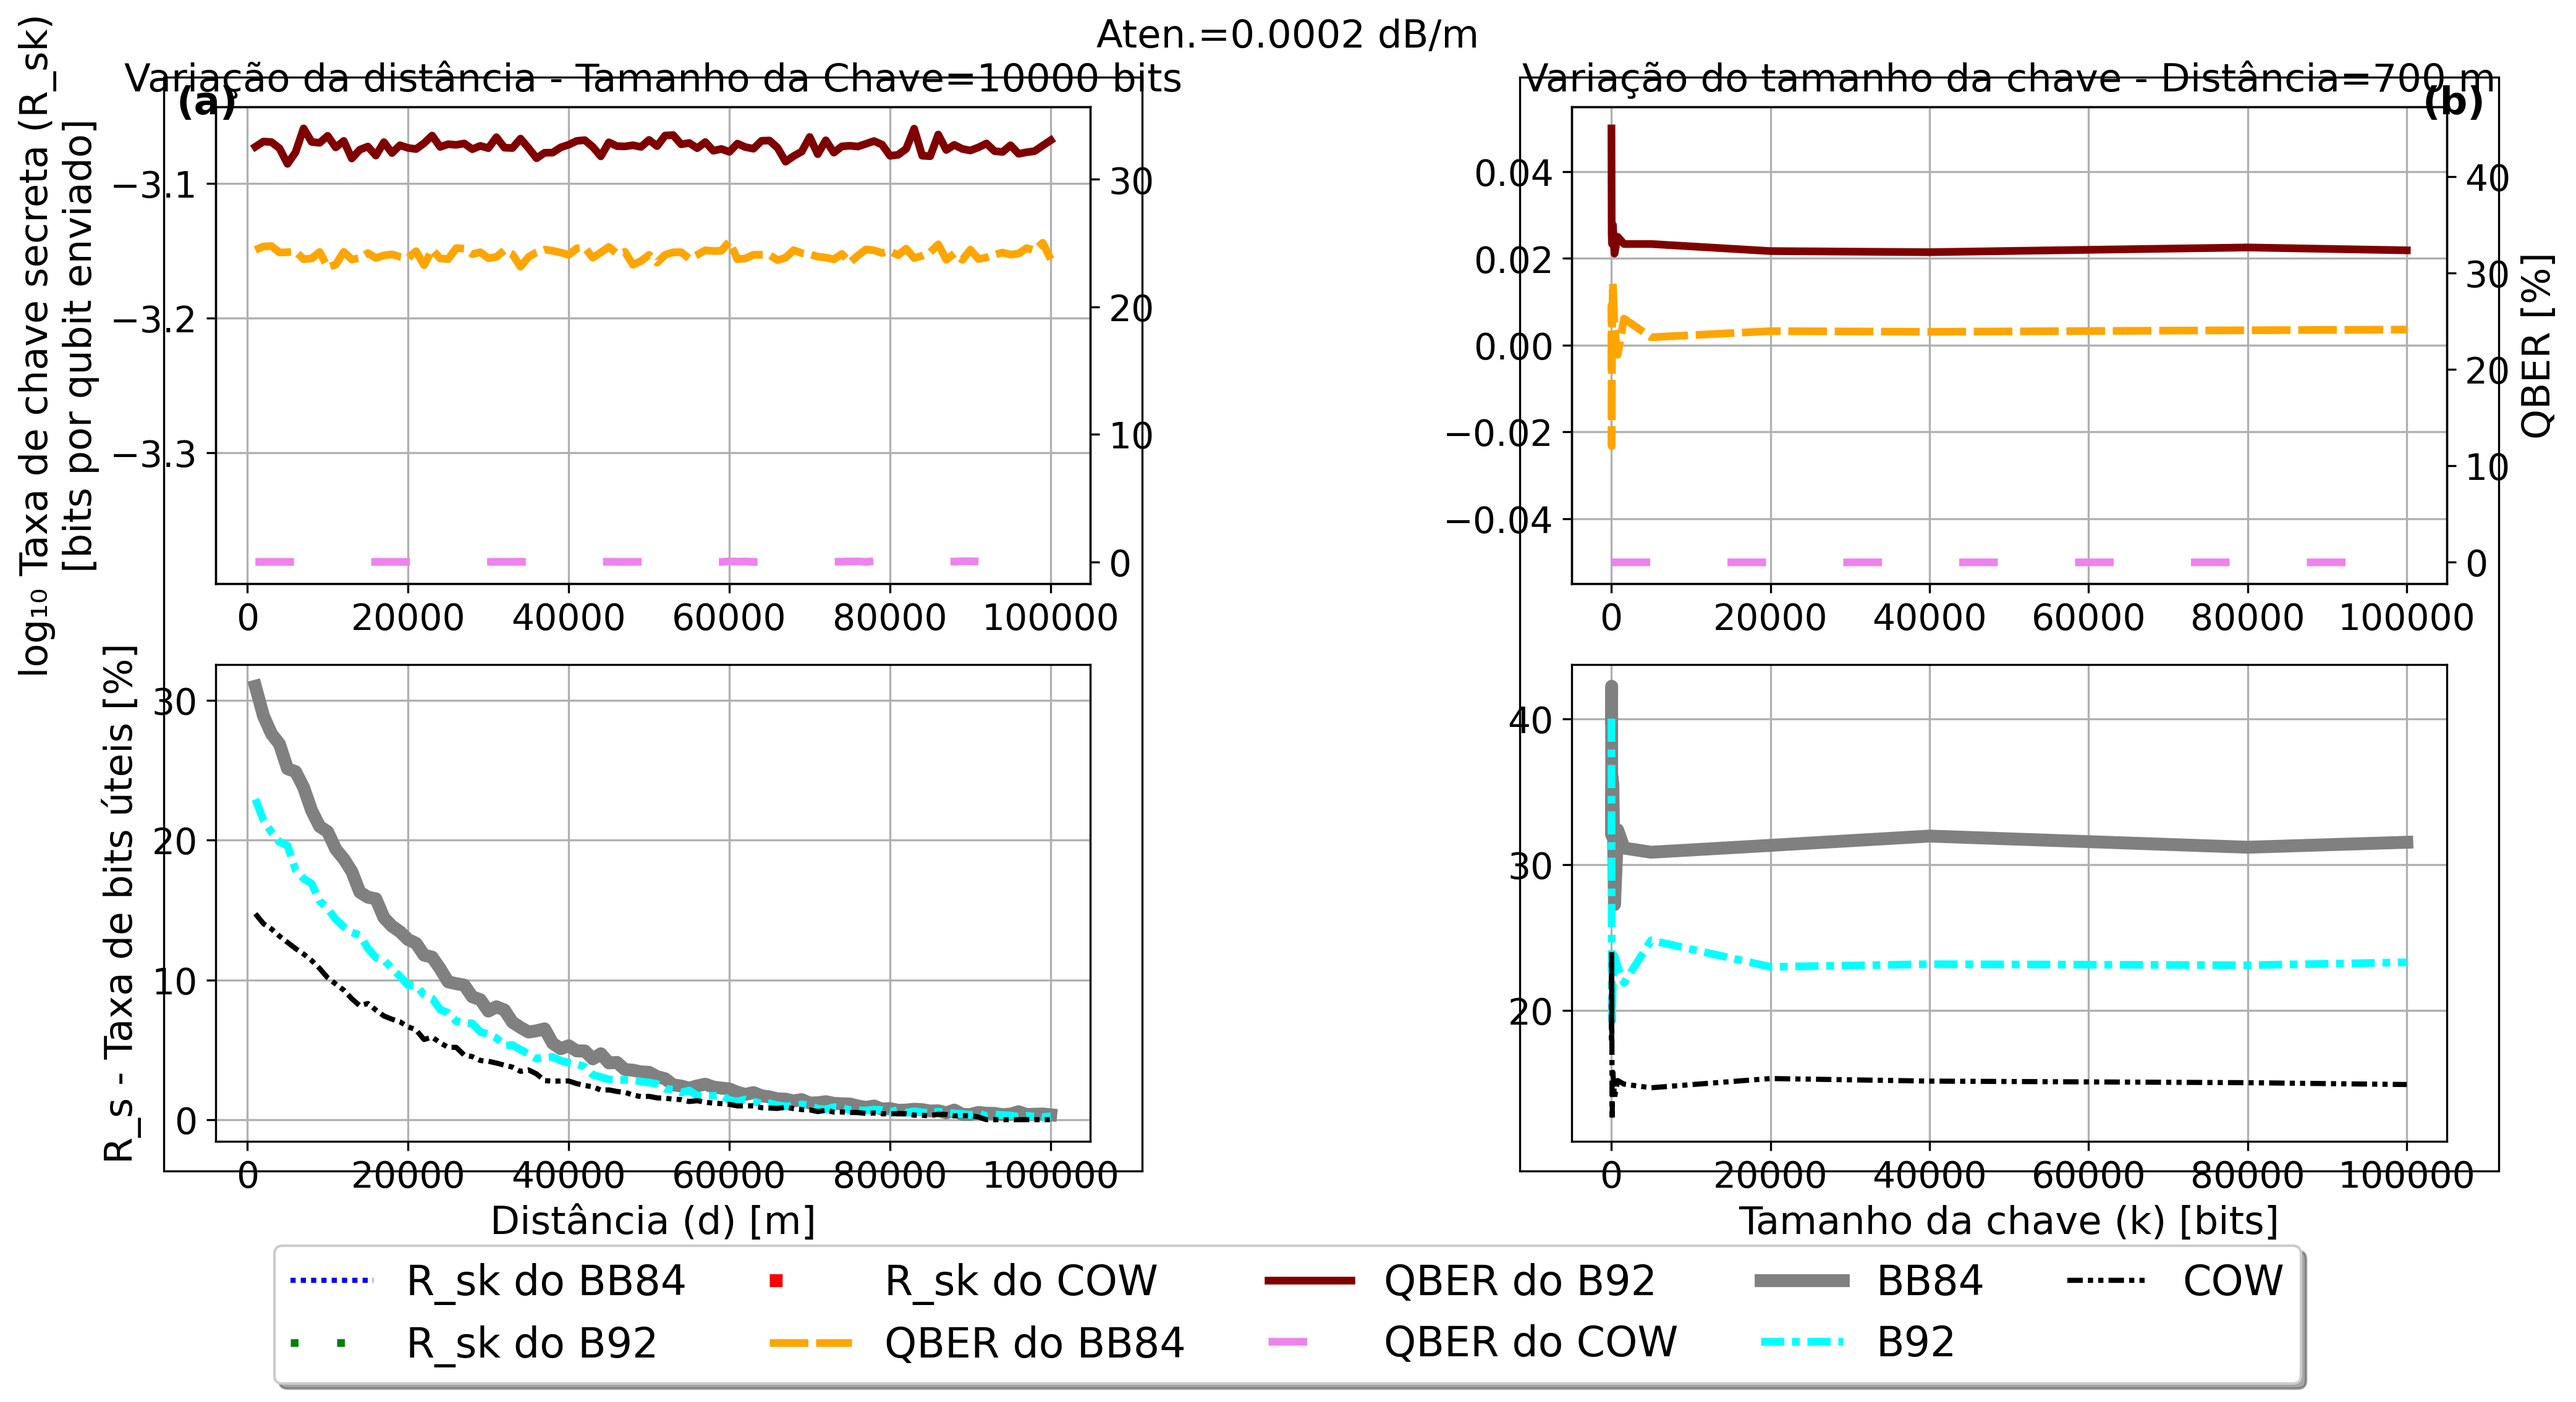
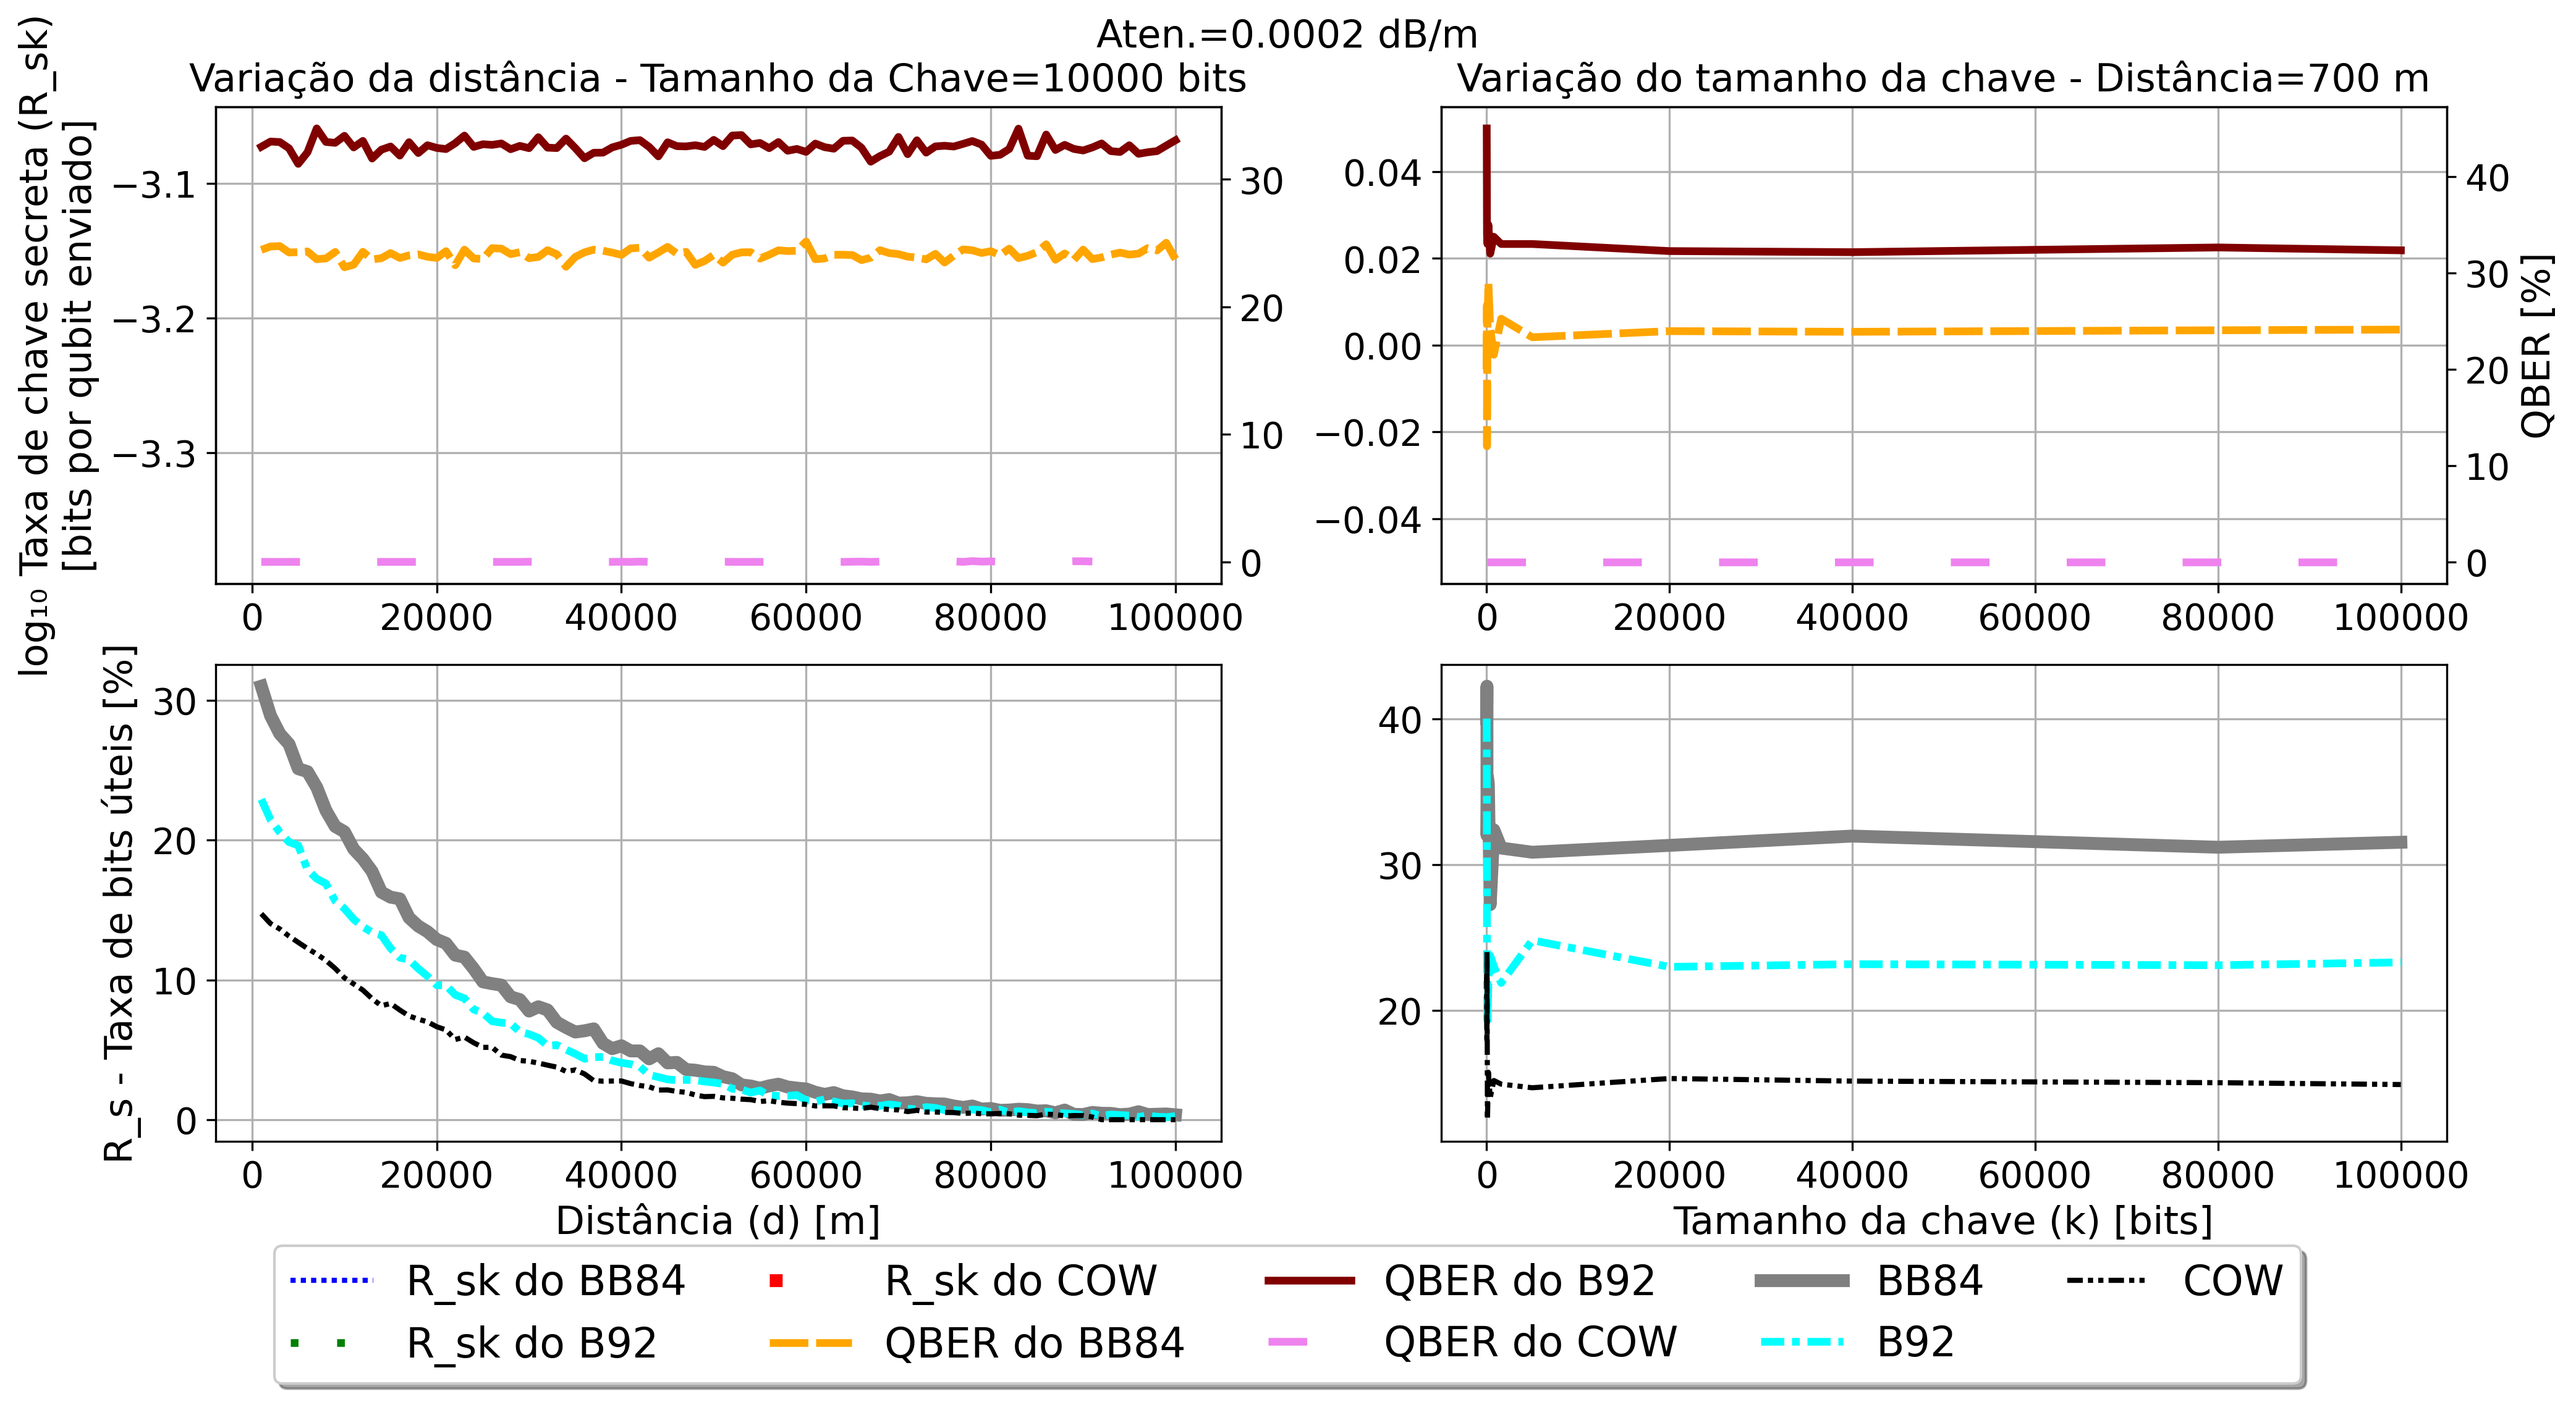
Bug fixes and adjustments

diff --git a/plot.py b/plot.py
@@ -214,51 +214,6 @@ def plot_dual_graph(
                fancybox=True, shadow=True, ncol=5, fontsize=fontsize_legend, markerscale=3)
  
     plt.tight_layout(rect=[0, 0.08, 1, 0.96])
-    #plt.tight_layout(rect=[0.04, 0.12, 0.96, 0.90])
-    ###########################################################################################
-    plt.subplots_adjust(wspace=0.55)   # <-- separação extra entre colunas
-
-    # ---- force the renderer to compute final axis positions ----
-    fig.canvas.draw()
-
-    # ---- draw thin bounding boxes + labels (a) and (b) ----
-    pad = 0.02   # padding em coordenadas de figura (0–1)
-
-    for col, label, label_ha in [(0, '(a)', 'left'), (1, '(b)', 'right')]:
-        pos_top = axes[0, col].get_position()
-        pos_bot = axes[1, col].get_position()
-
-        # Bounding box em coordenadas de figura
-        x0 = pos_top.x0 - pad
-        y0 = pos_bot.y0 - pad
-        width  = pos_top.x1 - pos_top.x0 + 2 * pad
-        height = pos_top.y1 - pos_bot.y0 + 2 * pad
-
-        rect = mpatches.FancyBboxPatch(
-            (x0, y0), width, height,
-            boxstyle="square,pad=0",
-            linewidth=0.8,
-            edgecolor='black',
-            facecolor='none',
-            transform=fig.transFigure,
-            clip_on=False,
-            zorder=10,
-        )
-        fig.add_artist(rect)
-
-        # Rótulo (a) no canto superior esquerdo / (b) no canto superior direito
-        label_x = x0 + 0.005 if label_ha == 'left' else x0 + width - 0.005
-        label_y = y0 + height - 0.005
-        fig.text(
-            label_x, label_y, label,
-            fontsize=fontsize,
-            fontweight='bold',
-            va='top',
-            ha=label_ha,
-            transform=fig.transFigure,
-            zorder=11,
-        )
-    ###########################################################################################
     plt.savefig(f"data/{filename}_graph-dual.png",
                 dpi=300, bbox_inches='tight')
     plt.close() 
